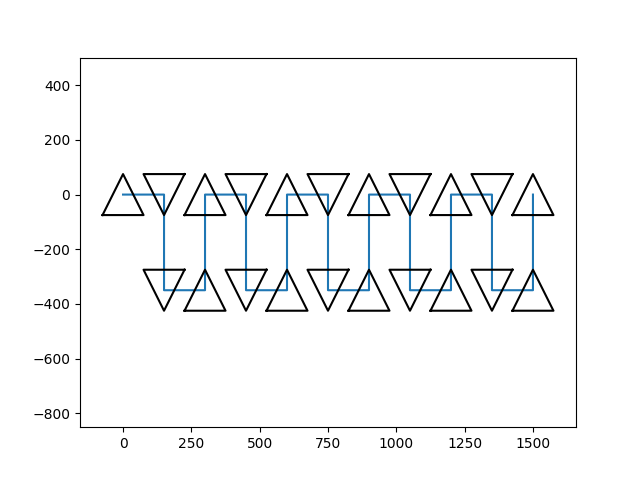
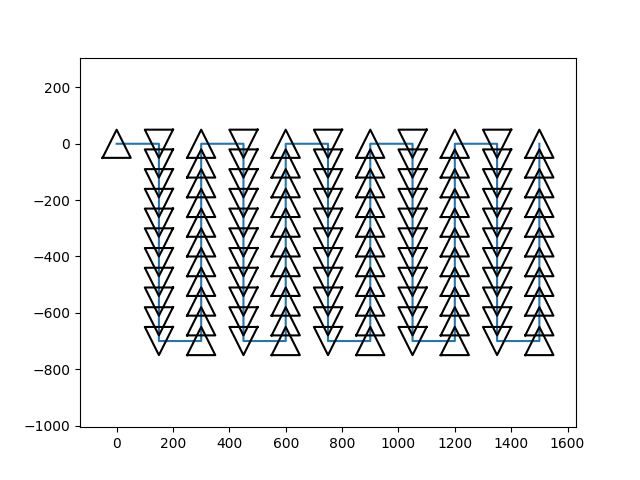
Updated multi-step example

diff --git a/Week_3_Loops_and_reading_code/Lab_3_loops/Exercises/robot_plotter.py b/Week_3_Loops_and_reading_code/Lab_3_loops/Exercises/robot_plotter.py
@@ -3,8 +3,10 @@ from math import cos, sin
 import numpy as np
 import matplotlib.pyplot as plt
 
-robot_shape = 75*np.array([[-1,0,1,-1],
-                           [-1,1,-1,-1]])
+robot_size = 50
+
+robot_shape = robot_size*np.array([[-1,0,1,-1],
+                                  [-1,1,-1,-1]])
 
 x_log = []
 y_log = []
